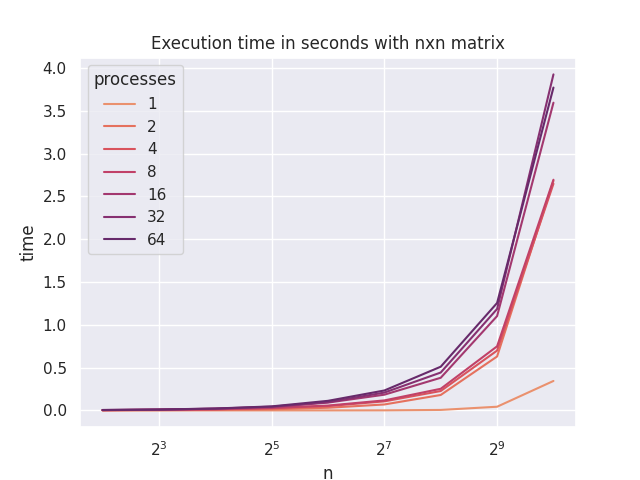
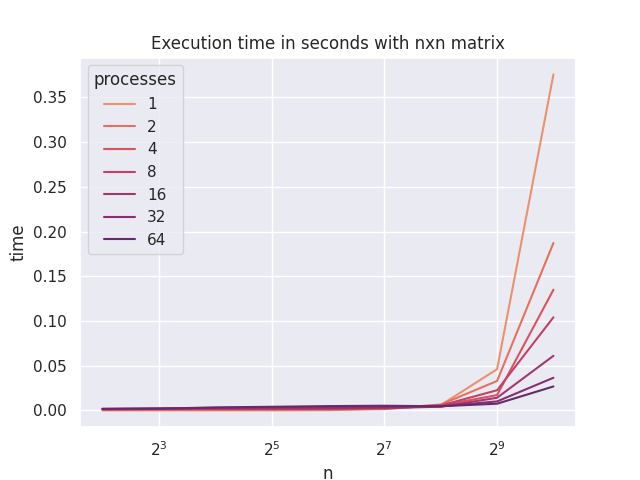
larger n

diff --git a/mpi/src/tria_det_improved.c b/mpi/src/tria_det_improved.c
@@ -6,7 +6,7 @@
 #include <mpi.h>
 
 #define N_RUNS 10
-#define N_MATRIX_LENS 10
+#define N_MATRIX_LENS 12
 #define SEED 42
 #define MAX_DET_VALUE 10.0
 
@@ -292,7 +292,7 @@ main(int argc, char **argv)
     MPI_Comm_size(MPI_COMM_WORLD, &threads);
     MPI_Comm_rank(MPI_COMM_WORLD, &rank);
 
-    size_t n[N_MATRIX_LENS] = {2, 4, 8, 16, 32, 64, 128, 256, 512, 1024};
+    size_t n[N_MATRIX_LENS] = {2, 4, 8, 16, 32, 64, 128, 256, 512, 1024, 2048, 4096};
 
     double timer_mpi, avg_time, true_det, parallel_det;
     double *matrix;

diff --git a/openmp/src/tria_det.c b/openmp/src/tria_det.c
@@ -5,7 +5,7 @@
 #include <omp.h>
 
 #define N_RUNS 10
-#define N_MATRIX_LENS 10
+#define N_MATRIX_LENS 12
 #define SEED 42
 #define MAX_DET_VALUE 10000.0
 #define MASTER_RANK 0
@@ -106,7 +106,7 @@ main(int argc, char **argv)
     }
 
     double **matrix;
-    int n[N_MATRIX_LENS] = {2, 4, 8, 16, 32, 64, 128, 256, 512, 1024};
+    size_t n[N_MATRIX_LENS] = {2, 4, 8, 16, 32, 64, 128, 256, 512, 1024, 2048, 4096};
     int threads;
     sscanf(argv[1], "%d", &threads);
     double timer_omp, avg_time, maxval;
